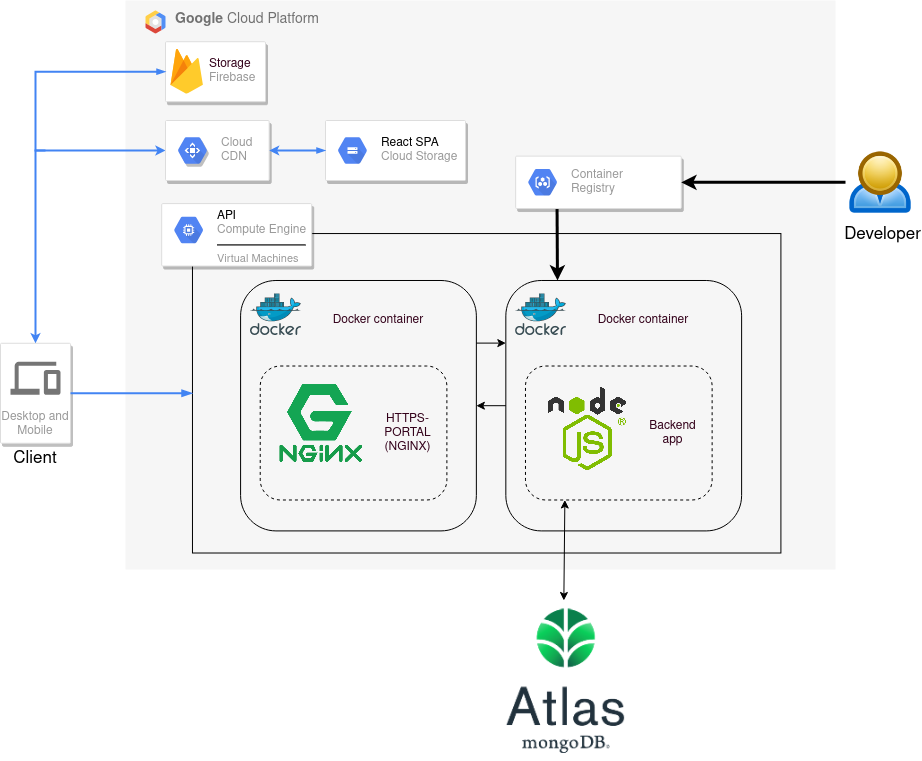
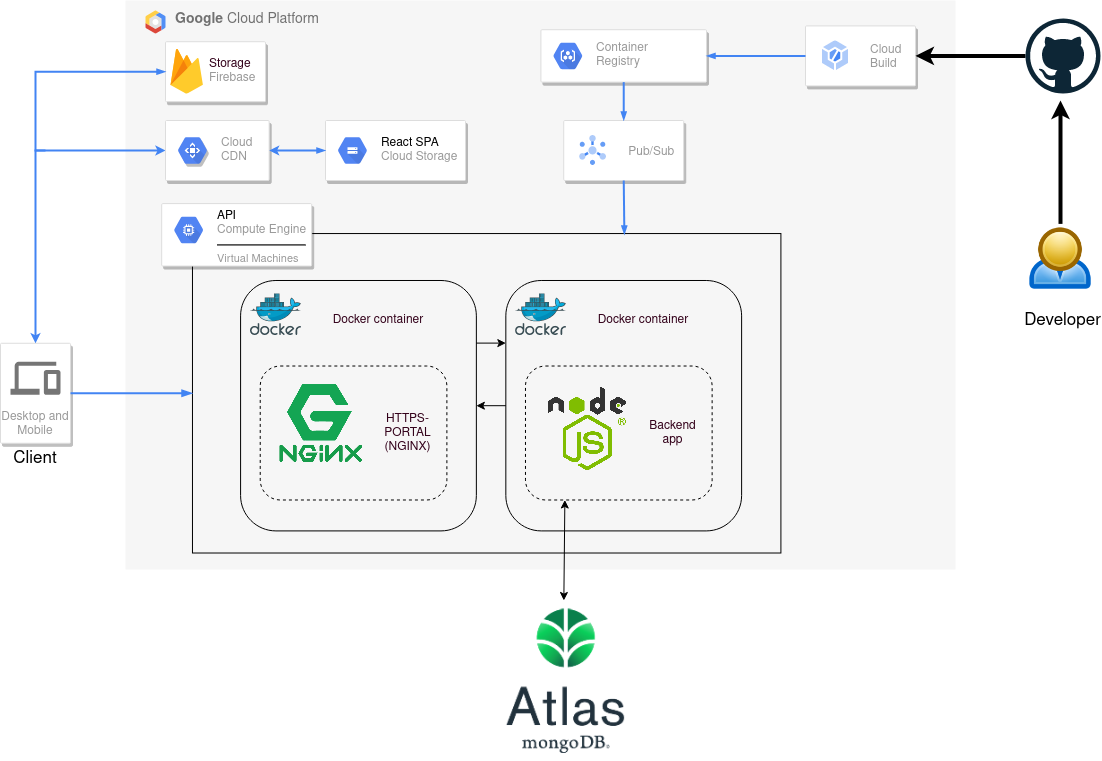
update readme

diff --git a/back-end/server.js b/back-end/server.js
@@ -4,7 +4,7 @@ const User = require("./models/user-model");
 const { DateTime } = require("luxon");
 
 app.listen(8080, () => {
-  console.log("Server is 跑 on 破 8080.");
+  console.log("Server is running !!.");
 });
 
 //-------------------socket.io---------------

diff --git a/README.md b/README.md
@@ -24,6 +24,7 @@ Test account and password:
   - [Database](#database)
   - [Cloud Services](#cloud-services)
   - [Networking](#networking)
+  - [Test](#test)
   - [Third Party Library](#third-party-library)
   - [Version Control](#version-control)
   - [Key Points](#key-points)
@@ -65,6 +66,8 @@ Test account and password:
 
 - Compute Engine
 - Container Registry
+- Cloud Build
+- Cloud Pub/Sub
 
 ### Networking
 
@@ -72,6 +75,10 @@ Test account and password:
 - Domain Name System (DNS)
 - NGINX
 - SSL (Let's Encrypt)
+
+### Test
+
+- Unit test: Jest, Sinon, Supertest
 
 ### Third Party Library
 
